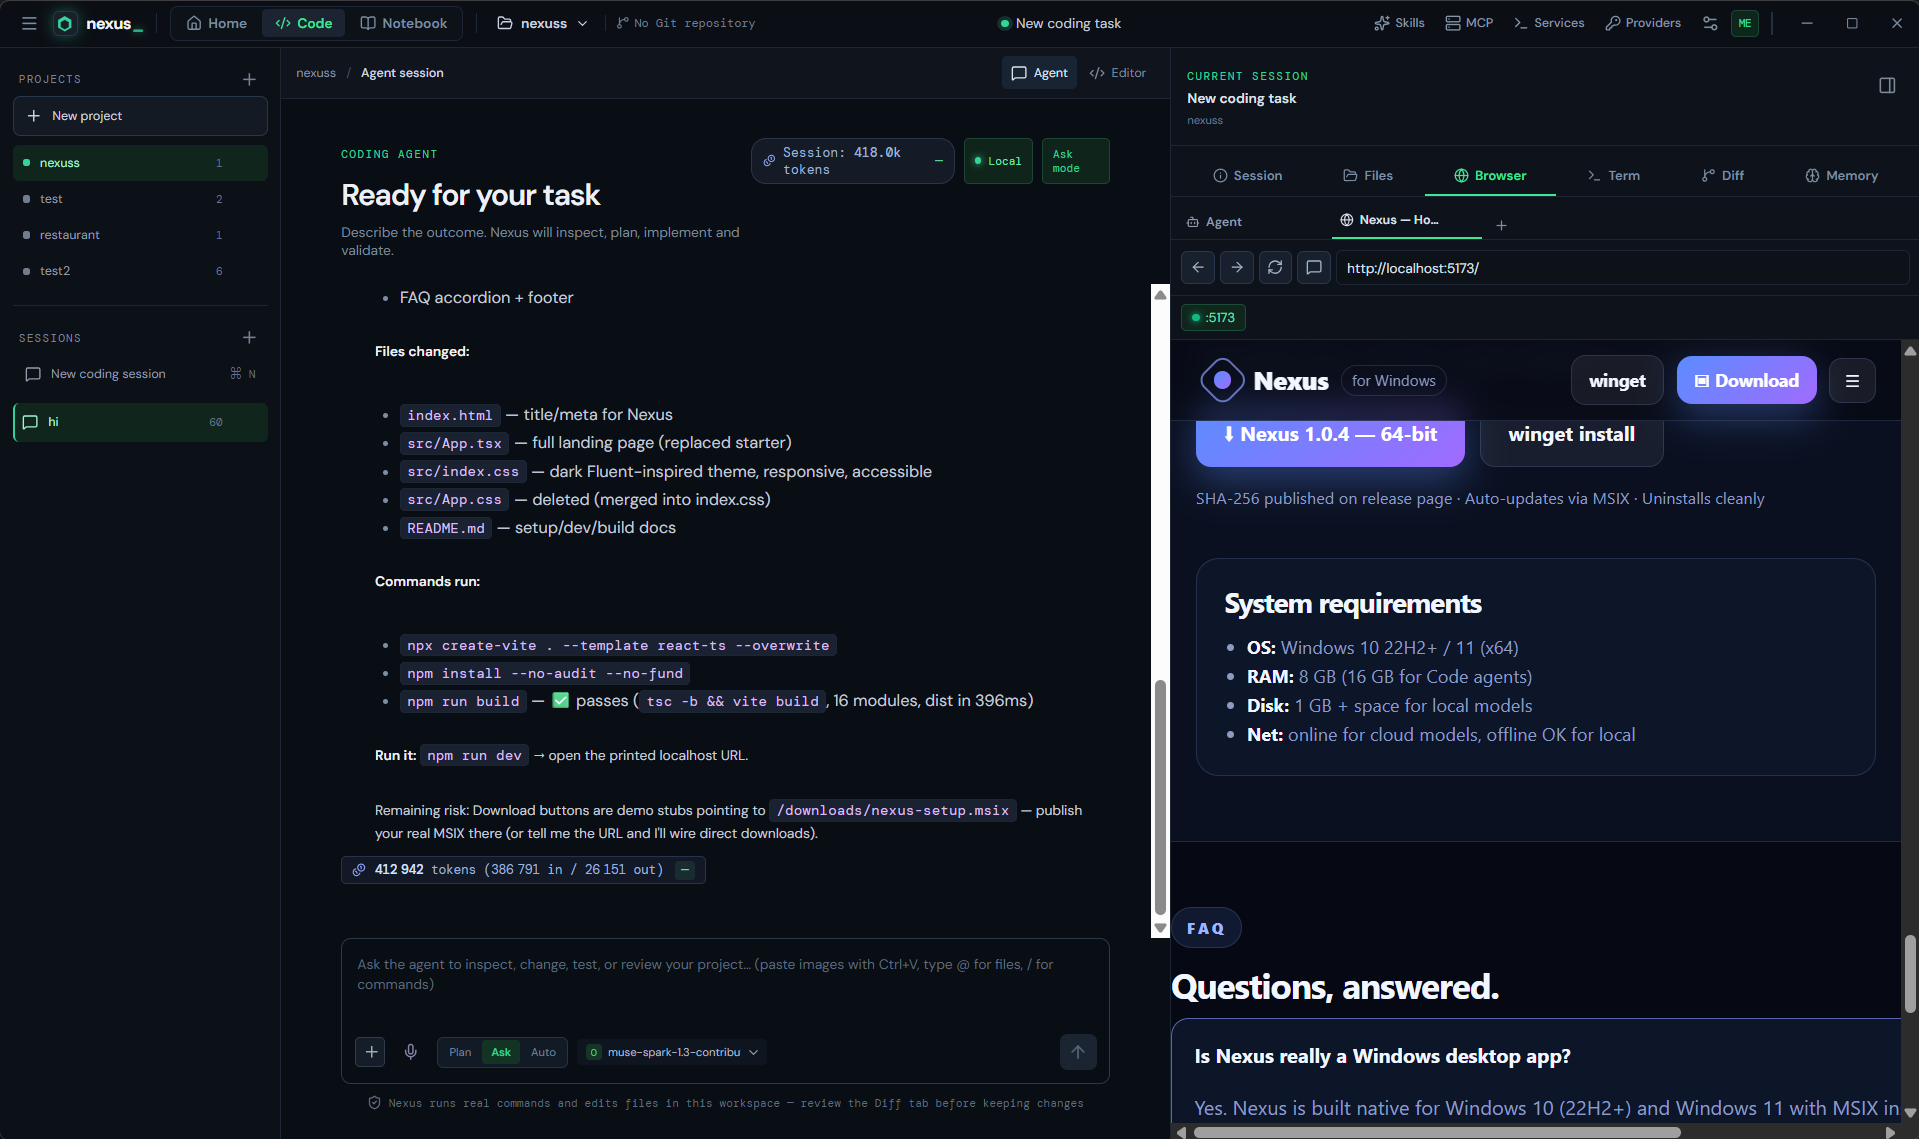
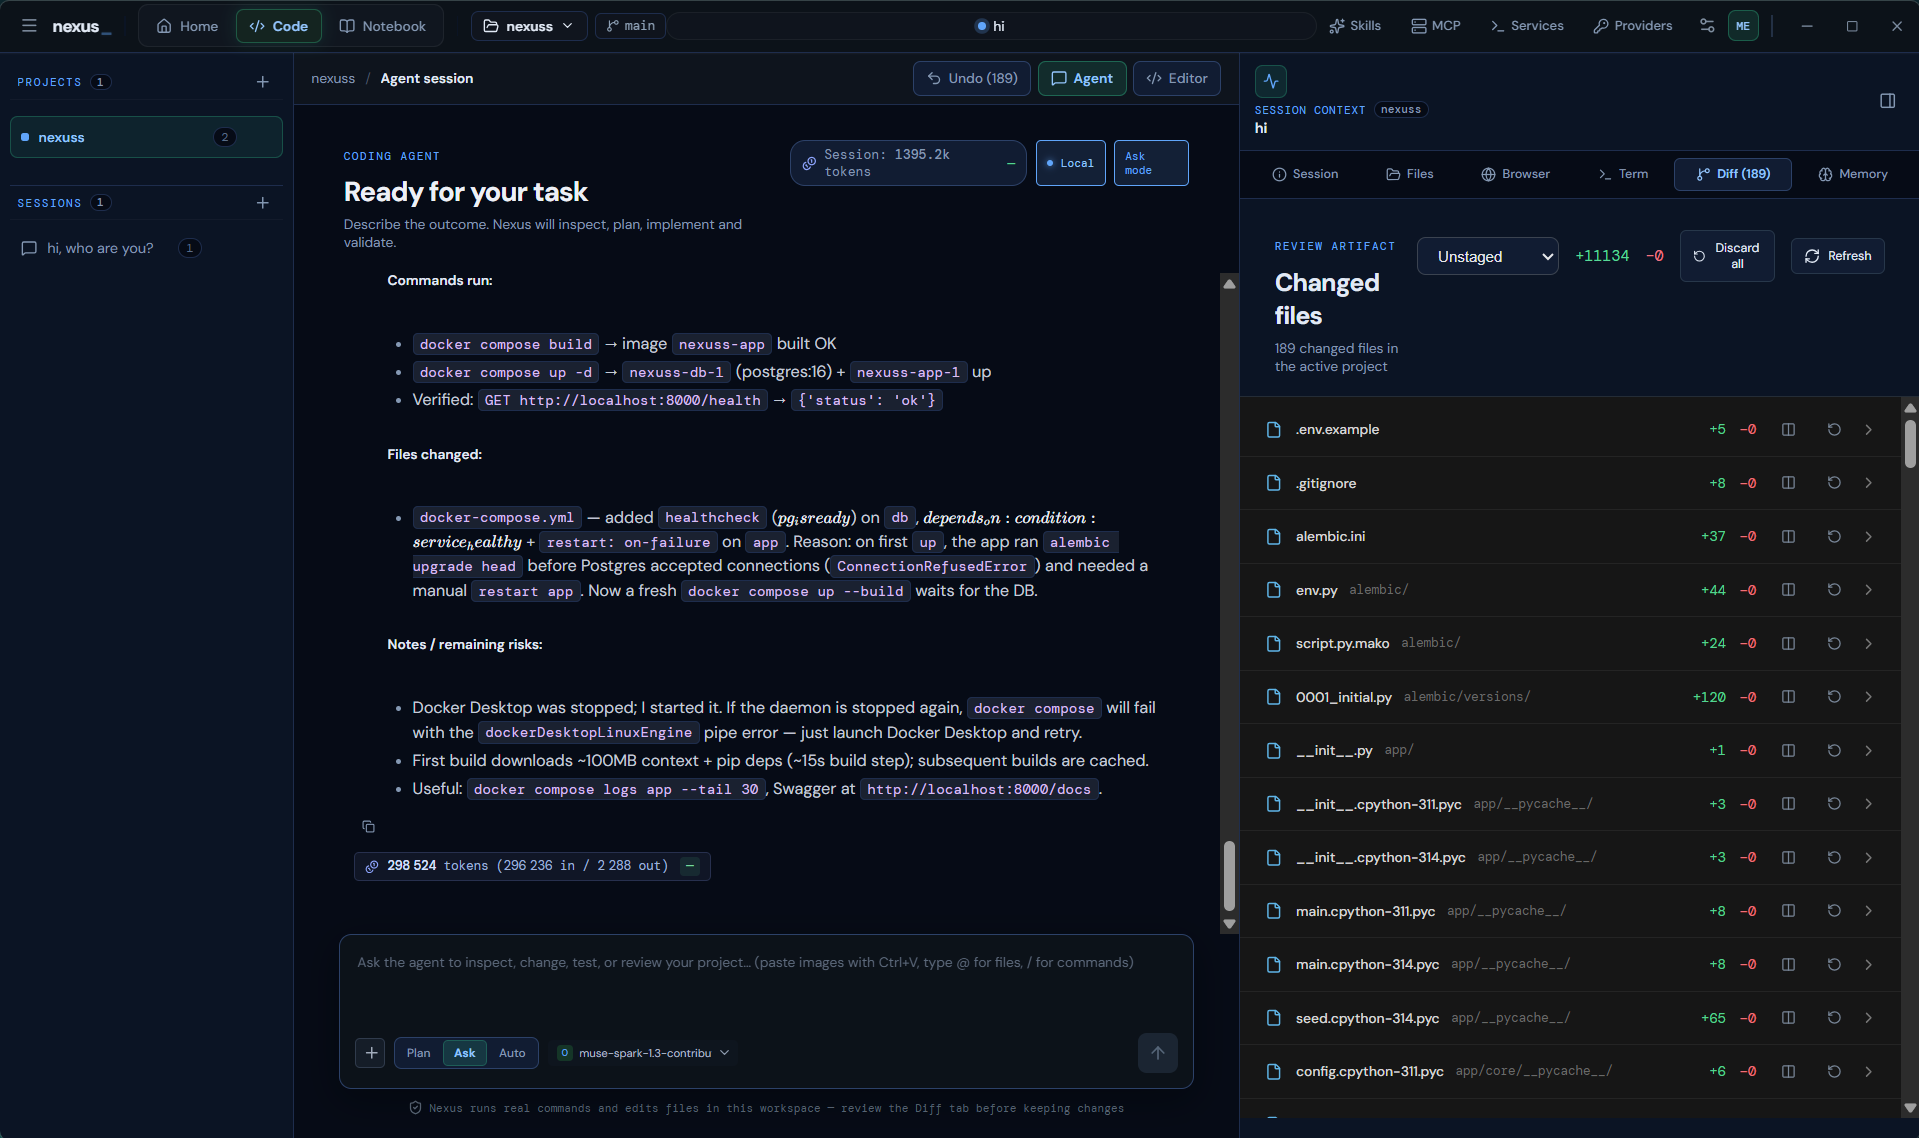
good

diff --git a/landingPage/index.html b/landingPage/index.html
@@ -24,7 +24,7 @@
       <a href="#fineprint">Fine print</a>
     </nav>
     <div class="mast-actions">
-      <a class="github-link" href="https://github.com/L7A9/nexus" aria-label="GitHub">
+      <a class="github-link" href="https://github.com/L7A9/nexus-code" aria-label="GitHub">
         <svg width="18" height="18" viewBox="0 0 24 24" fill="currentColor" aria-hidden="true"><path d="M12 .5C5.65.5.5 5.65.5 12c0 5.08 3.29 9.39 7.86 10.91.58.11.79-.25.79-.55v-2.15c-3.2.7-3.87-1.36-3.87-1.36-.52-1.33-1.28-1.68-1.28-1.68-1.04-.71.08-.7.08-.7 1.15.08 1.76 1.18 1.76 1.18 1.03 1.76 2.7 1.25 3.36.96.1-.75.4-1.25.72-1.54-2.55-.29-5.23-1.28-5.23-5.68 0-1.26.45-2.28 1.18-3.09-.12-.29-.51-1.46.11-3.05 0 0 .96-.31 3.15 1.18a10.9 10.9 0 0 1 5.74 0c2.19-1.49 3.15-1.18 3.15-1.18.62 1.59.23 2.76.11 3.05.74.81 1.18 1.83 1.18 3.09 0 4.41-2.69 5.38-5.25 5.67.41.35.77 1.05.77 2.12v3.15c0 .3.21.67.8.55A11.51 11.51 0 0 0 23.5 12C23.5 5.65 18.35.5 12 .5Z"/></svg>
       </a>
       <a class="btn btn-small btn-primary download-setup" href="https://github.com/L7A9/nexus/releases/latest" data-dl="setup">
@@ -38,7 +38,7 @@
     <section class="hero">
       <a class="pill" href="#install">✦ v0.3.6 — Setup + Portable, updates on restart ✦</a>
       <h1>Nexus: Beautiful, fun<br />&amp; agentic desk</h1>
-      <p class="byline">by <a href="https://github.com/L7A9/nexus">L7A9</a></p>
+      <p class="byline">by <a href="https://github.com/L7A9">L7A9</a></p>
       <p class="lede">
         The malleable desk for the age of agents.
         Vibe your way through every fix, draft, or footnote —
@@ -235,7 +235,7 @@
         <a class="community-card" href="https://github.com/L7A9/nexus/releases/latest">
           <h3>⬇ Download</h3><p>Grab the Setup or Portable and be running in minutes.</p><span>Get Nexus →</span>
         </a>
-        <a class="community-card" href="https://github.com/L7A9/nexus">
+        <a class="community-card" href="https://github.com/L7A9/nexus-code">
           <h3>✦ Contribute</h3><p>File issues, fix bugs, and submit features on GitHub.</p><span>Open the repo →</span>
         </a>
         <a class="community-card" href="https://github.com/L7A9/nexus/releases/latest">
@@ -256,7 +256,7 @@
         <a class="btn btn-big btn-ghost download-portable" href="https://github.com/L7A9/nexus/releases/latest" data-dl="portable">Portable version</a>
       </div>
       <p class="version-line"><span class="dot"></span><span class="version-text">Checking latest release…</span></p>
-      <p class="reqs">Windows 10/11 64-bit · Free · Updates install on restart · macOS &amp; Linux builds on the releases page</p>
+      <p class="reqs">Windows 10/11 64-bit · Free · Updates install on restart</p>
     </section>
   </main>
 
@@ -267,7 +267,7 @@
         <p><strong>Nexus</strong> — beautiful, fun &amp; agentic desk by L7A9.<br />The malleable desk for the age of agents.</p>
       </div>
       <nav aria-label="Explore"><p>Explore</p><a href="#desk">The desk</a><a href="#watch">Watch</a><a href="#install">Install</a><a href="#agents">Agents</a></nav>
-      <nav aria-label="Project"><p>Project</p><a href="https://github.com/L7A9/nexus">GitHub</a><a href="https://github.com/L7A9/nexus/releases/latest">Releases</a><a href="#fineprint">Security</a></nav>
+      <nav aria-label="Project"><p>Project</p><a href="https://github.com/L7A9/nexus-code">GitHub</a><a href="https://github.com/L7A9/nexus/releases/latest">Releases</a><a href="#fineprint">Security</a></nav>
       <nav aria-label="Fine print"><p>Fine print</p><a href="#figures">Numbers</a><a href="#community">Community</a><a href="#download">Download</a></nav>
     </div>
     <div class="foot-base">
